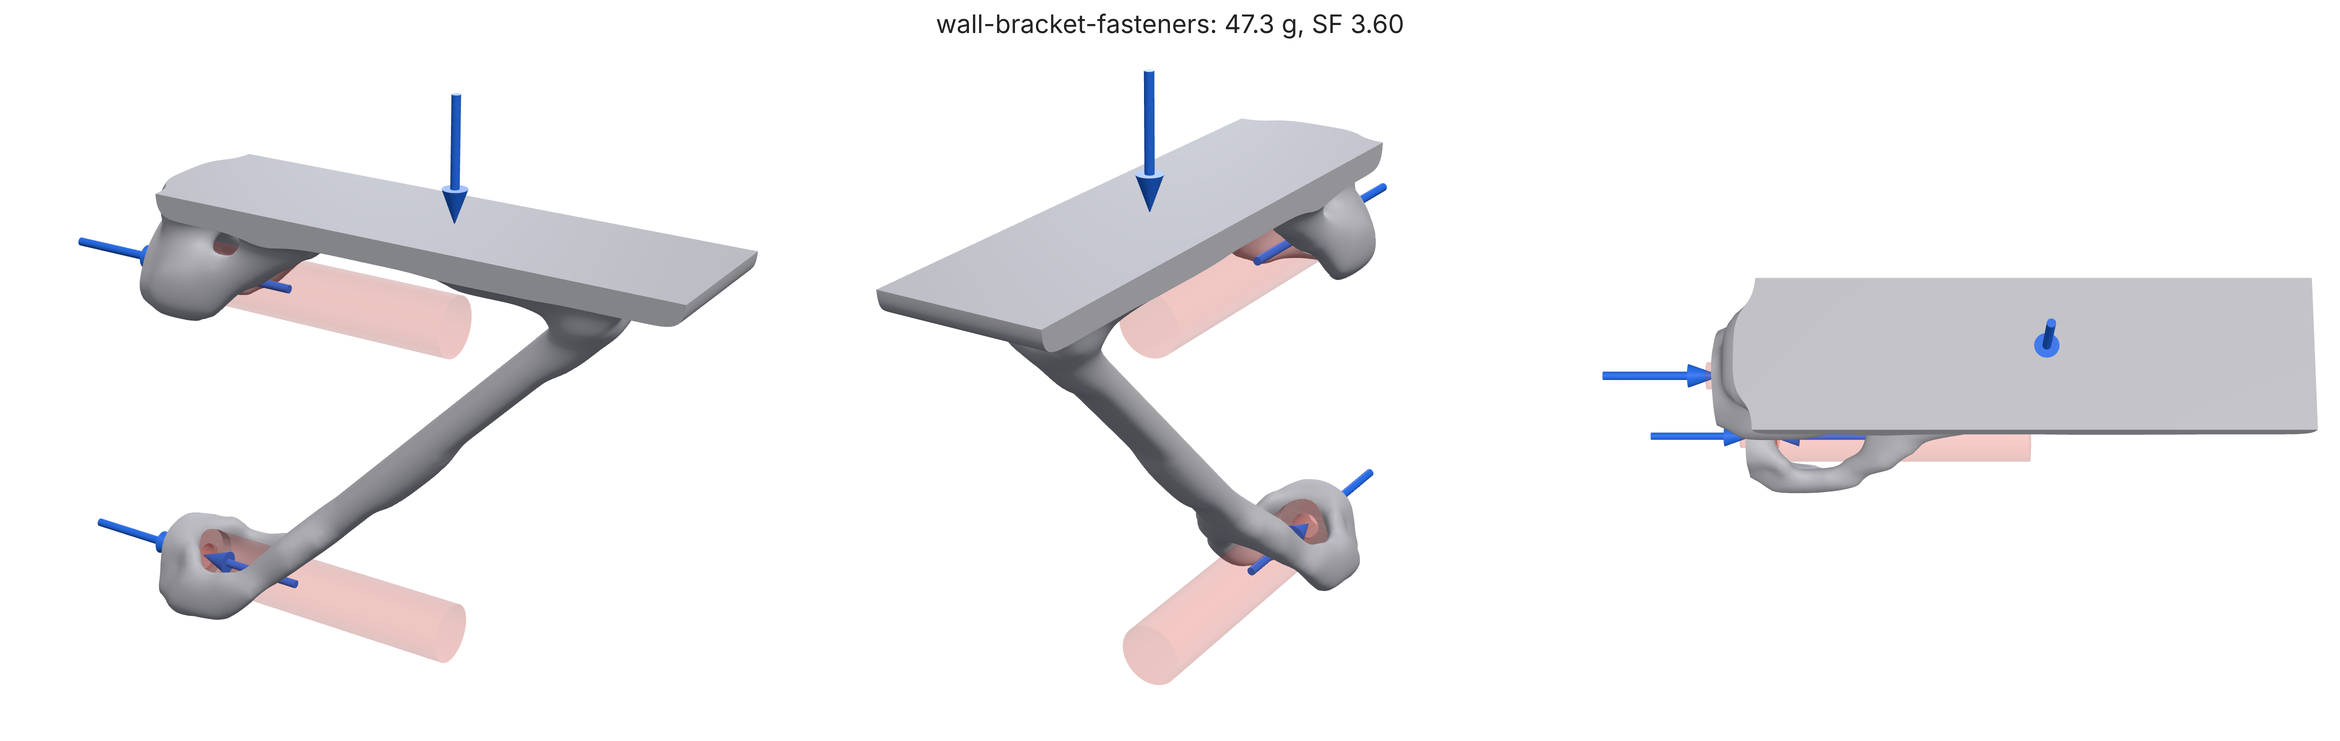
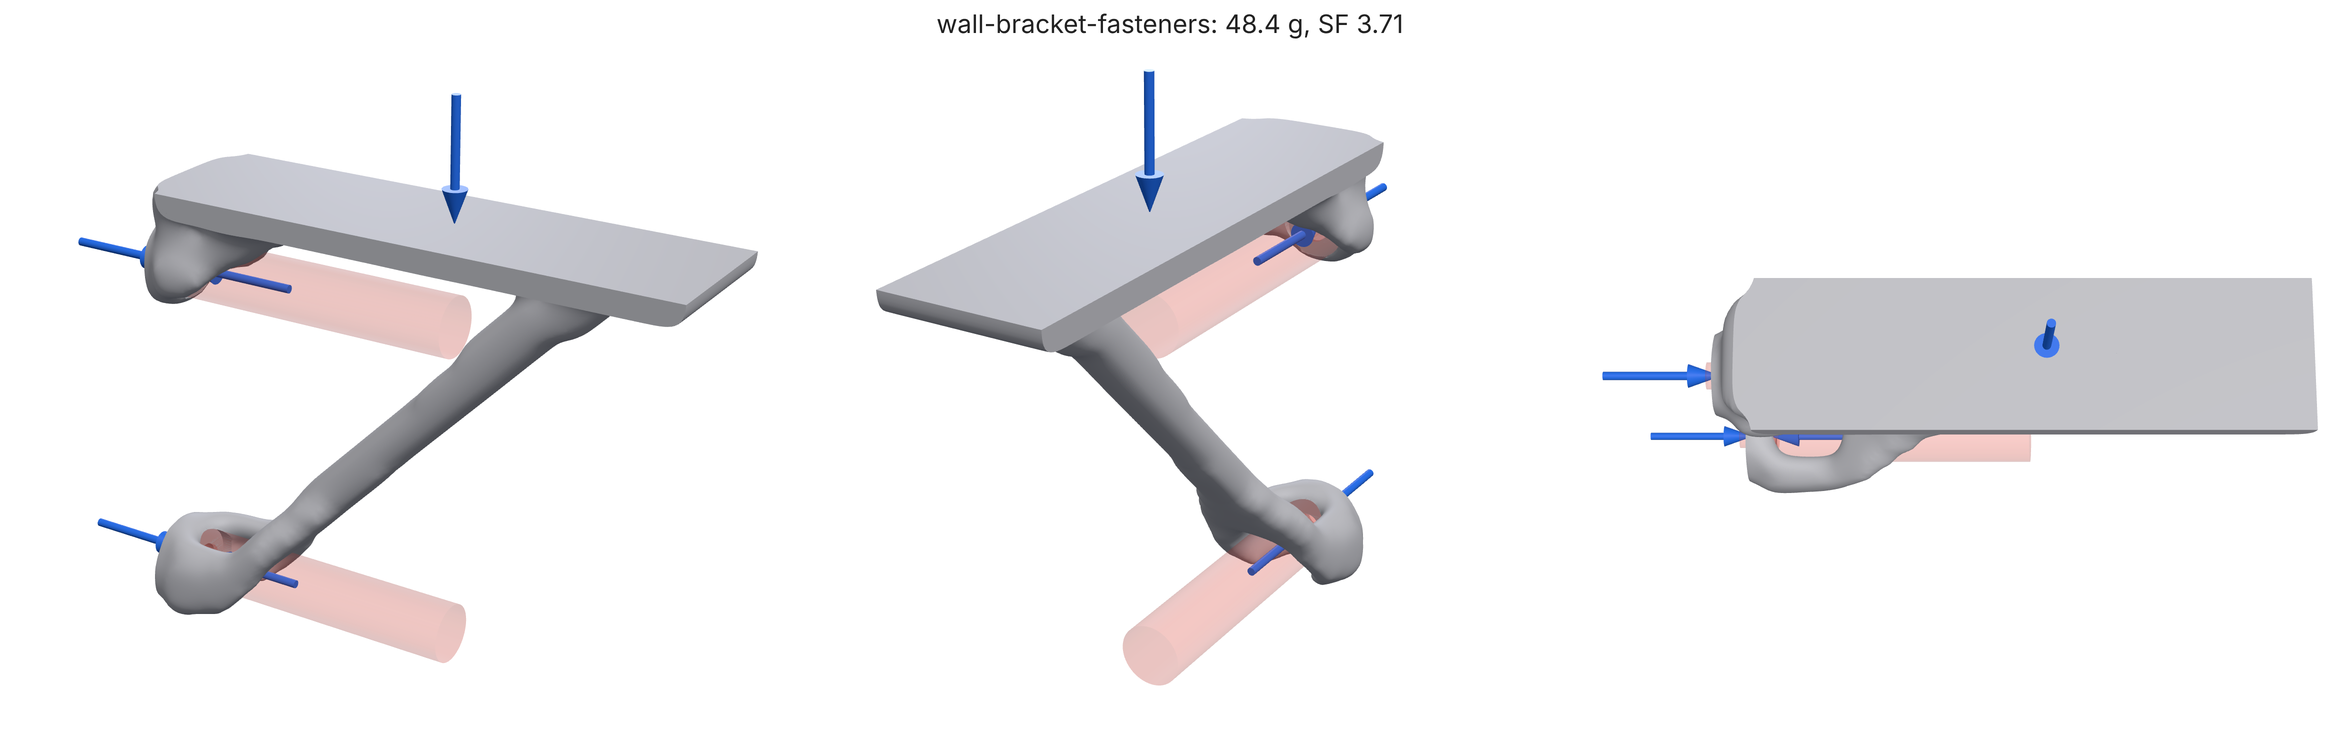
README gallery: 14/14 from the cloud suite on 846581f (adds cast arm link, MJF wrist link)
Claude-Session: https://claude.ai/code/session_01HFwANX2D6J6GnXn5qhKsZi

diff --git a/docs/GALLERY.md b/docs/GALLERY.md
@@ -1,14 +1,24 @@
 # Gallery
 
-Rendered 2026-10-30 from the `d8984bf` eval run (12/12 passing) by `python docs/gallery.py`.
+Rendered 2026-10-30 from `b031cbe` by `python docs/gallery.py`.
 
 Regenerate with the commands at the top of [`gallery.py`](gallery.py). Stress maps colour worst-case von Mises stress against the part's own 98th percentile, to show the load paths, on the shape bent by the worst load case, exaggerated; the margin against the material is the SF.
+
+## arm-link-cast
+
+71.4 g · 43% lighter · SF 16.07 · pass
+
+<sub>deflection 0.432 mm · p5Member 3.70 mm · creaseLength 0.0 mm · volumeFraction 49% · 1466 s</sub>
+
+![arm-link-cast](images/cases/arm-link-cast-views.png)
+
+![arm-link-cast stress](images/stress/arm-link-cast-views.png)
 
 ## arm-link-driven
 
 46.2 g · 63% lighter · SF 7.98 · pass
 
-<sub>deflection 0.494 mm · p5Member 3.41 mm · creaseLength 0.0 mm · volumeFraction 28% · 1782 s</sub>
+<sub>deflection 0.494 mm · p5Member 3.41 mm · creaseLength 0.0 mm · volumeFraction 28% · 0 s</sub>
 
 ![arm-link-driven](images/cases/arm-link-driven-views.png)
 
@@ -18,7 +28,7 @@ Regenerate with the commands at the top of [`gallery.py`](gallery.py). Stress ma
 
 58.9 g · 53% lighter · SF 14.78 · pass
 
-<sub>deflection 0.450 mm · p5Member 3.47 mm · creaseLength 0.0 mm · volumeFraction 39% · 1344 s</sub>
+<sub>deflection 0.450 mm · p5Member 3.47 mm · creaseLength 0.0 mm · volumeFraction 39% · 0 s</sub>
 
 ![arm-link](images/cases/arm-link-views.png)
 
@@ -28,7 +38,7 @@ Regenerate with the commands at the top of [`gallery.py`](gallery.py). Stress ma
 
 24.8 g · 84% lighter · SF 3.50 · pass
 
-<sub>deflection 0.058 mm · p5Member 4.19 mm · creaseLength 0.0 mm · volumeFraction 7% · 1324 s</sub>
+<sub>deflection 0.058 mm · p5Member 4.19 mm · creaseLength 0.0 mm · volumeFraction 7% · 0 s</sub>
 
 ![bell-crank](images/cases/bell-crank-views.png)
 
@@ -38,7 +48,7 @@ Regenerate with the commands at the top of [`gallery.py`](gallery.py). Stress ma
 
 148.8 g · 91% lighter · SF 2.54 · pass
 
-<sub>deflection 0.532 mm · p5Member 5.49 mm · creaseLength 33.1 mm · volumeFraction 2% · 1920 s</sub>
+<sub>deflection 0.532 mm · p5Member 5.49 mm · creaseLength 33.1 mm · volumeFraction 2% · 0 s</sub>
 
 ![grip-turret](images/cases/grip-turret-views.png)
 
@@ -48,17 +58,27 @@ Regenerate with the commands at the top of [`gallery.py`](gallery.py). Stress ma
 
 207.7 g · 88% lighter · SF 7.71 · pass
 
-<sub>deflection 0.513 mm · p5Member 4.95 mm · creaseLength 32.8 mm · volumeFraction 7% · 2900 s</sub>
+<sub>deflection 0.513 mm · p5Member 4.95 mm · creaseLength 32.8 mm · volumeFraction 7% · 0 s</sub>
 
 ![grip-upper-arm](images/cases/grip-upper-arm-views.png)
 
 ![grip-upper-arm stress](images/stress/grip-upper-arm-views.png)
 
+## grip-wrist-link-mjf
+
+43.4 g · 94% lighter · SF 4.29 · pass
+
+<sub>deflection 0.499 mm · p5Member 1.83 mm · creaseLength 0.0 mm · volumeFraction 6% · 2882 s</sub>
+
+![grip-wrist-link-mjf](images/cases/grip-wrist-link-mjf-views.png)
+
+![grip-wrist-link-mjf stress](images/stress/grip-wrist-link-mjf-views.png)
+
 ## grip-wrist-yoke
 
 25.3 g · 90% lighter · SF 3.10 · pass
 
-<sub>deflection 0.101 mm · p5Member 3.41 mm · creaseLength 0.0 mm · volumeFraction 9% · 4109 s</sub>
+<sub>deflection 0.101 mm · p5Member 3.41 mm · creaseLength 0.0 mm · volumeFraction 9% · 2253 s</sub>
 
 ![grip-wrist-yoke](images/cases/grip-wrist-yoke-views.png)
 
@@ -66,9 +86,9 @@ Regenerate with the commands at the top of [`gallery.py`](gallery.py). Stress ma
 
 ## mbb-beam
 
-26.4 g · 60% lighter · SF 1.56 · pass
+23.8 g · 64% lighter · SF 1.63 · pass
 
-<sub>deflection 1.669 mm · p5Member 2.65 mm · creaseLength 0.0 mm · volumeFraction 40% · 1979 s</sub>
+<sub>deflection 1.873 mm · p5Member 2.56 mm · creaseLength 0.0 mm · volumeFraction 37% · 571 s</sub>
 
 ![mbb-beam](images/cases/mbb-beam-views.png)
 
@@ -78,7 +98,7 @@ Regenerate with the commands at the top of [`gallery.py`](gallery.py). Stress ma
 
 27.5 g · 69% lighter · SF 3.35 · pass
 
-<sub>deflection 0.321 mm · p5Member 1.46 mm · creaseLength 0.0 mm · volumeFraction 30% · 864 s</sub>
+<sub>deflection 0.321 mm · p5Member 1.46 mm · creaseLength 0.0 mm · volumeFraction 30% · 351 s</sub>
 
 ![motor-mount](images/cases/motor-mount-views.png)
 
@@ -88,7 +108,7 @@ Regenerate with the commands at the top of [`gallery.py`](gallery.py). Stress ma
 
 31.3 g · 79% lighter · SF 2.95 · pass
 
-<sub>deflection 0.624 mm · p5Member 3.41 mm · creaseLength 0.0 mm · volumeFraction 20% · 1516 s</sub>
+<sub>deflection 0.624 mm · p5Member 3.41 mm · creaseLength 0.0 mm · volumeFraction 20% · 585 s</sub>
 
 ![printed-hook](images/cases/printed-hook-views.png)
 
@@ -96,9 +116,9 @@ Regenerate with the commands at the top of [`gallery.py`](gallery.py). Stress ma
 
 ## wall-bracket-fasteners
 
-47.3 g · 89% lighter · SF 3.60 · pass
+48.4 g · 89% lighter · SF 3.71 · pass
 
-<sub>deflection 0.166 mm · p5Member 4.55 mm · creaseLength 0.0 mm · volumeFraction 8% · 2008 s</sub>
+<sub>deflection 0.144 mm · p5Member 4.55 mm · creaseLength 0.0 mm · volumeFraction 8% · 507 s</sub>
 
 ![wall-bracket-fasteners](images/cases/wall-bracket-fasteners-views.png)
 
@@ -106,9 +126,9 @@ Regenerate with the commands at the top of [`gallery.py`](gallery.py). Stress ma
 
 ## wall-bracket
 
-57.2 g · 86% lighter · SF 2.87 · pass
+68.1 g · 84% lighter · SF 2.75 · pass
 
-<sub>deflection 0.103 mm · p5Member 4.55 mm · creaseLength 0.0 mm · volumeFraction 10% · 1761 s</sub>
+<sub>deflection 0.114 mm · p5Member 4.55 mm · creaseLength 0.0 mm · volumeFraction 13% · 382 s</sub>
 
 ![wall-bracket](images/cases/wall-bracket-views.png)
 

diff --git a/README.md b/README.md
@@ -47,27 +47,31 @@ for the method, the study format, goals and limits.
 
 ## Examples
 
-The eval cases (12/12 passing): GRIP robot-arm style parts, each optimized and then checked by a fresh FEA of the delivered mesh. Blue arrows are loads, red is keep-out. Every view, stress map and number is in [docs/GALLERY.md](docs/GALLERY.md).
+The eval cases (14/14 passing): GRIP robot-arm style parts, each optimized and then checked by a fresh FEA of the delivered mesh. Blue arrows are loads, red is keep-out. Every view, stress map and number is in [docs/GALLERY.md](docs/GALLERY.md).
 
 <table>
 <tr>
+<td align="center" valign="top"><img src="docs/images/cases/arm-link-cast.png" width="250"><br><b>arm-link-cast</b><br><sub>71.4 g · 43% lighter · SF 16.07 · pass</sub></td>
 <td align="center" valign="top"><img src="docs/images/cases/arm-link-driven.png" width="250"><br><b>arm-link-driven</b><br><sub>46.2 g · 63% lighter · SF 7.98 · pass</sub></td>
 <td align="center" valign="top"><img src="docs/images/cases/arm-link.png" width="250"><br><b>arm-link</b><br><sub>58.9 g · 53% lighter · SF 14.78 · pass</sub></td>
-<td align="center" valign="top"><img src="docs/images/cases/bell-crank.png" width="250"><br><b>bell-crank</b><br><sub>24.8 g · 84% lighter · SF 3.50 · pass</sub></td>
 </tr>
 <tr>
+<td align="center" valign="top"><img src="docs/images/cases/bell-crank.png" width="250"><br><b>bell-crank</b><br><sub>24.8 g · 84% lighter · SF 3.50 · pass</sub></td>
 <td align="center" valign="top"><img src="docs/images/cases/grip-turret.png" width="250"><br><b>grip-turret</b><br><sub>148.8 g · 91% lighter · SF 2.54 · pass</sub></td>
 <td align="center" valign="top"><img src="docs/images/cases/grip-upper-arm.png" width="250"><br><b>grip-upper-arm</b><br><sub>207.7 g · 88% lighter · SF 7.71 · pass</sub></td>
-<td align="center" valign="top"><img src="docs/images/cases/grip-wrist-yoke.png" width="250"><br><b>grip-wrist-yoke</b><br><sub>25.3 g · 90% lighter · SF 3.10 · pass</sub></td>
 </tr>
 <tr>
-<td align="center" valign="top"><img src="docs/images/cases/mbb-beam.png" width="250"><br><b>mbb-beam</b><br><sub>26.4 g · 60% lighter · SF 1.56 · pass</sub></td>
+<td align="center" valign="top"><img src="docs/images/cases/grip-wrist-link-mjf.png" width="250"><br><b>grip-wrist-link-mjf</b><br><sub>43.4 g · 94% lighter · SF 4.29 · pass</sub></td>
+<td align="center" valign="top"><img src="docs/images/cases/grip-wrist-yoke.png" width="250"><br><b>grip-wrist-yoke</b><br><sub>25.3 g · 90% lighter · SF 3.10 · pass</sub></td>
+<td align="center" valign="top"><img src="docs/images/cases/mbb-beam.png" width="250"><br><b>mbb-beam</b><br><sub>23.8 g · 64% lighter · SF 1.63 · pass</sub></td>
+</tr>
+<tr>
 <td align="center" valign="top"><img src="docs/images/cases/motor-mount.png" width="250"><br><b>motor-mount</b><br><sub>27.5 g · 69% lighter · SF 3.35 · pass</sub></td>
 <td align="center" valign="top"><img src="docs/images/cases/printed-hook.png" width="250"><br><b>printed-hook</b><br><sub>31.3 g · 79% lighter · SF 2.95 · pass</sub></td>
+<td align="center" valign="top"><img src="docs/images/cases/wall-bracket-fasteners.png" width="250"><br><b>wall-bracket-fasteners</b><br><sub>48.4 g · 89% lighter · SF 3.71 · pass</sub></td>
 </tr>
 <tr>
-<td align="center" valign="top"><img src="docs/images/cases/wall-bracket-fasteners.png" width="250"><br><b>wall-bracket-fasteners</b><br><sub>47.3 g · 89% lighter · SF 3.60 · pass</sub></td>
-<td align="center" valign="top"><img src="docs/images/cases/wall-bracket.png" width="250"><br><b>wall-bracket</b><br><sub>57.2 g · 86% lighter · SF 2.87 · pass</sub></td>
+<td align="center" valign="top"><img src="docs/images/cases/wall-bracket.png" width="250"><br><b>wall-bracket</b><br><sub>68.1 g · 84% lighter · SF 2.75 · pass</sub></td>
 </tr>
 </table>
 
@@ -93,7 +97,7 @@ Made another way: the same arm link printed, cast (no undercuts along z), 3-axis
 
 ![manufacturing constraints](docs/images/manufacturing/arm-link.png)
 
-<sub>Rendered 2026-10-30 from the `d8984bf` eval run (12/12 passing) by `python docs/gallery.py`.</sub>
+<sub>Rendered 2026-10-30 from `b031cbe` by `python docs/gallery.py`.</sub>
 
 <!-- gallery:end -->
 
